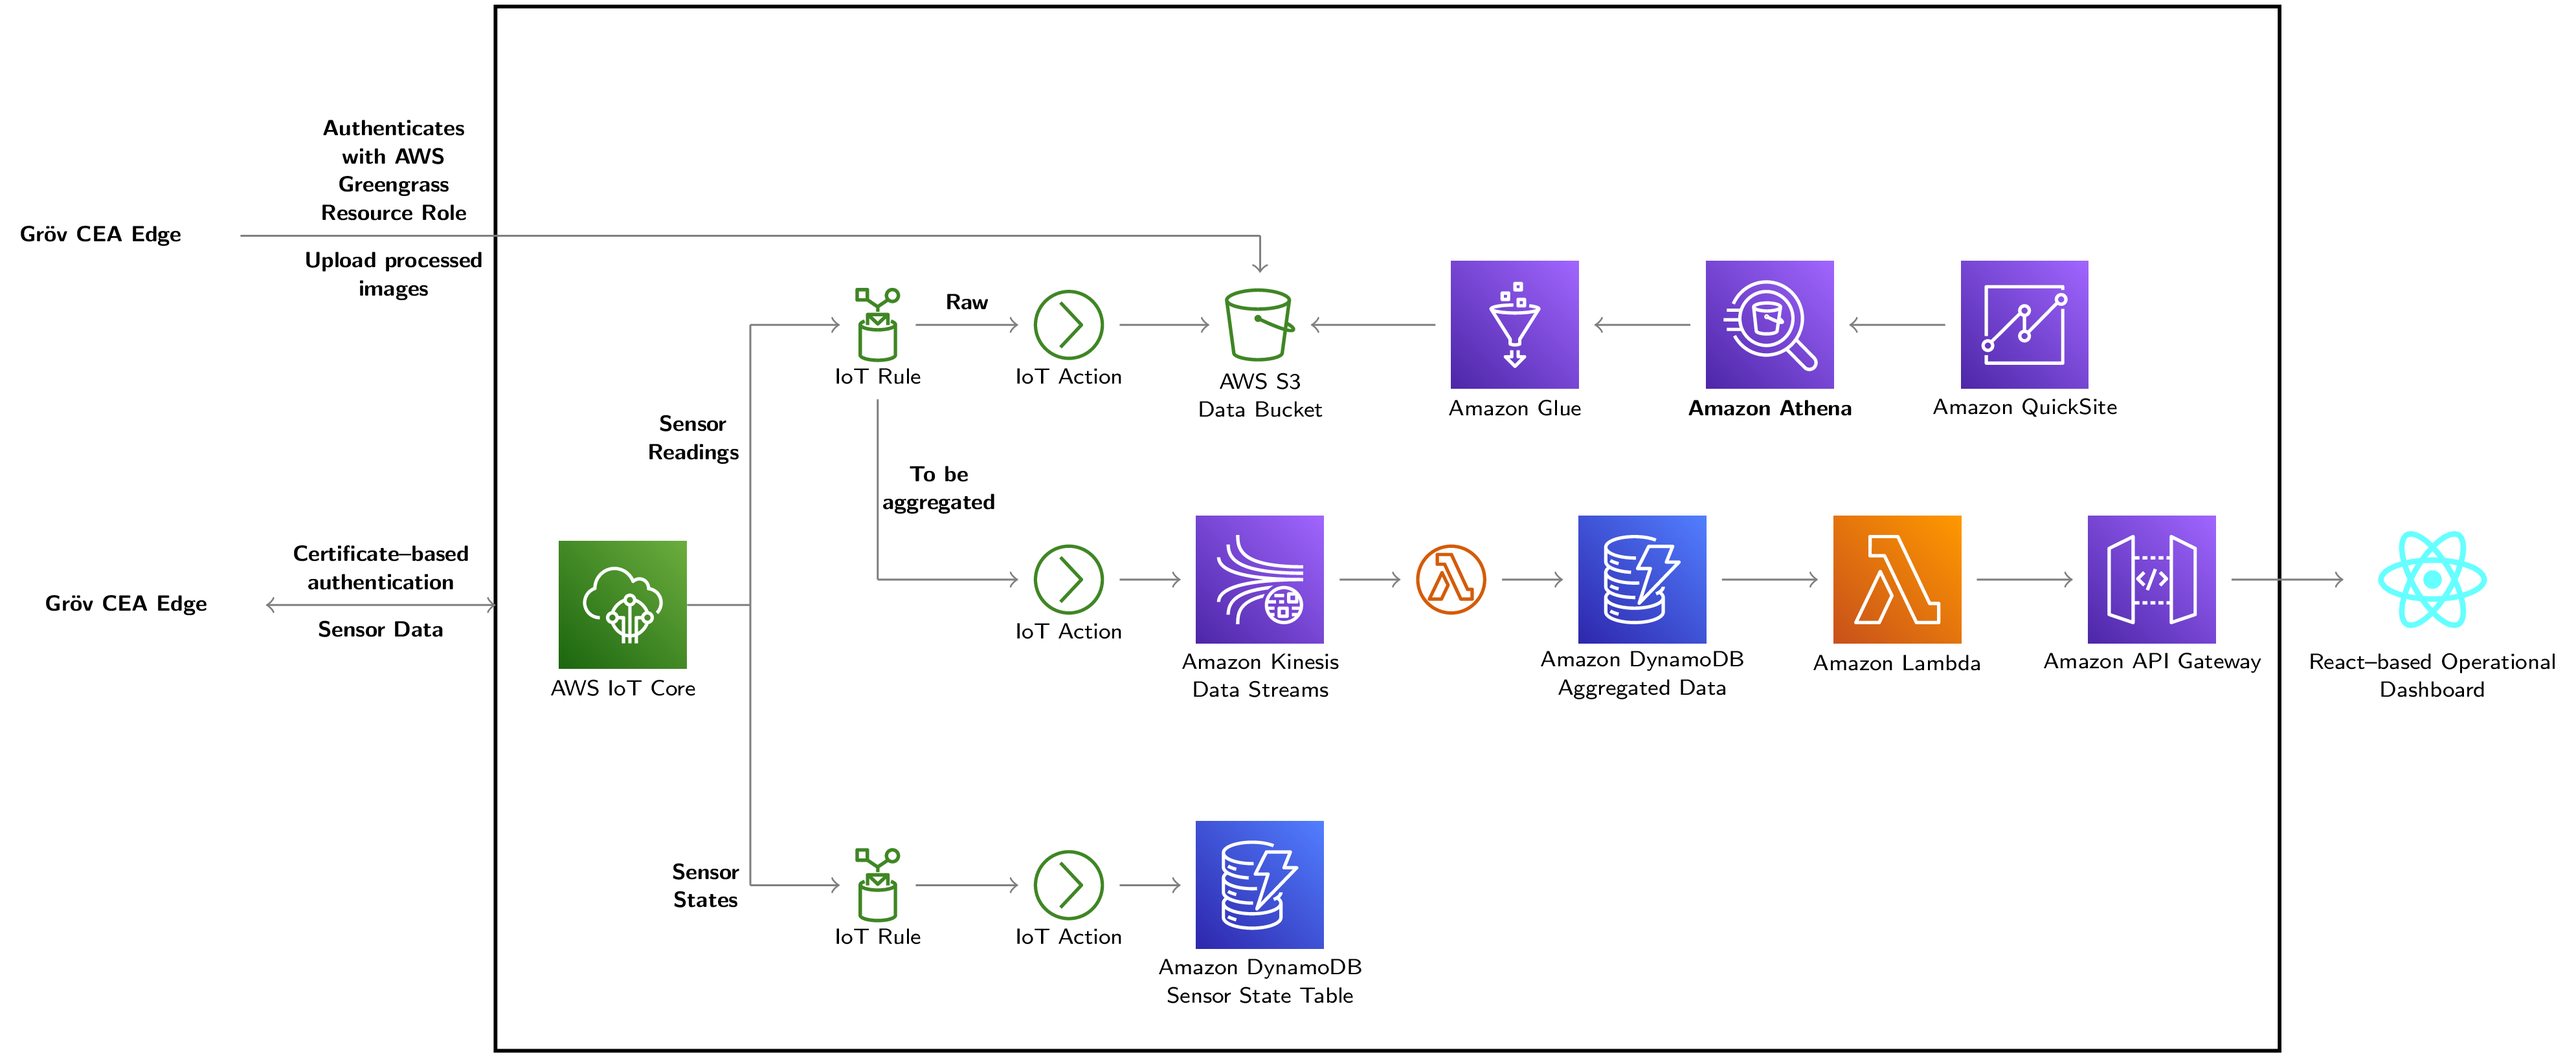
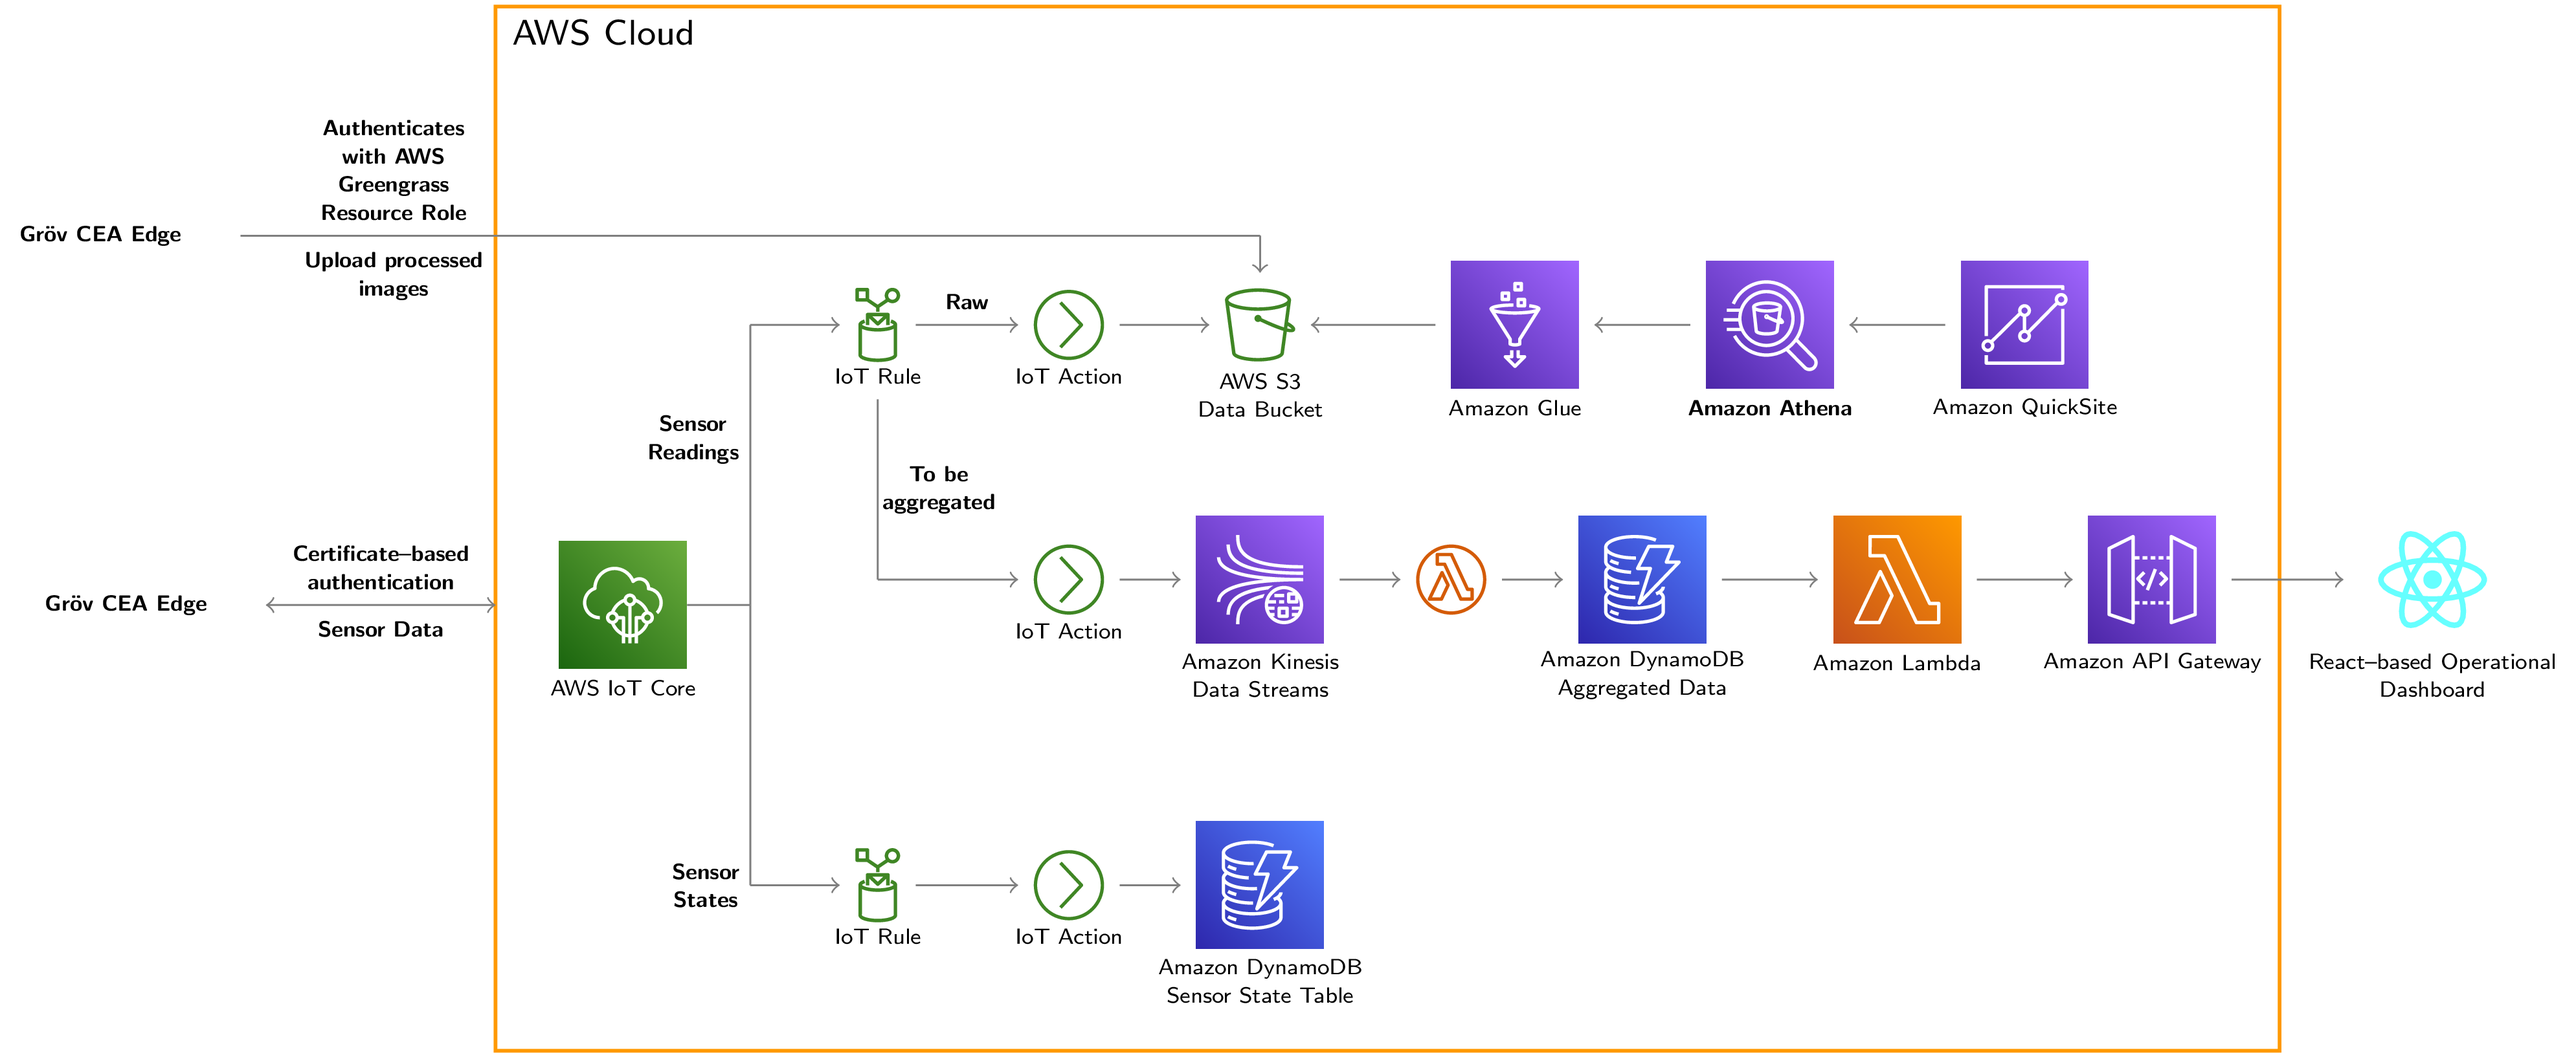
Added awsOrange to style via aws2tex; updated Data example output

Changed region(s): [[0.187, 0.0, 0.8726, 0.0624], [0.187, 0.9676, 0.8726, 0.9988]]

diff --git a/examples/Data-pipeline-Grov-Technologies.tex b/examples/Data-pipeline-Grov-Technologies.tex
@@ -21,25 +21,15 @@
     urlcolor={blue!80!black}
 }
 
+\definecolor{awsOrange}{RGB}{255 153 0}
 \renewcommand{\familydefault}{\sfdefault}
 
 \definecolor{reactColor}{RGB}{102,255,255}
 
 \begin{document}
-%% \section{Example: AWS Architecture blog: \textit{Building a Controlled Environment Agriculture Platform}}
-%% \noindent Example taken from AWS Architecture Blog\footnote{\url{https://aws.amazon.com/blogs/architecture}}, 
-%% \textit{Building a Controlled Environment Agriculture Platform}\footnote{\url{https://aws.amazon.com/blogs/architecture/building-a-controlled-environment-agriculture-platform/}}, by Ashu Joshi, 2020.12.22.
-%% Original diagrm\footnote{\url{https://d2908q01vomqb2.cloudfront.net/fc074d501302eb2b93e2554793fcaf50b3bf7291/2020/12/21/Data-pipeline-Grov-Technologies-1024x374.png}} recreated, using \href{https://ctan.org/pkg/pgf?lang=en}{tikz} and the \href{https://github.com/gnewton/awsArchIcons2LaTeX}{awsicons} package.
-%% \pagenumbering{gobble}
-%% \newpage
-%% \begin{landscape}
-%% \section{Original diagram (PNG image)}
-%% \includegraphics[width=20cm] {Data-pipeline-Grov-Technologies-1024x374.png}
-
-%% \section{Recreated diagram}
 \begin{tikzpicture}[%
     %% AWS has no React symbol
-    %% From: https://tex.stackexchange.com/questions/349960/how-to-draw-a-symbol-on-a-tikz-node-that-can-be-reused
+    %% Derived from: https://tex.stackexchange.com/questions/349960/how-to-draw-a-symbol-on-a-tikz-node-that-can-be-reused
     atom/.style = {shape=coordinate,minimum size=#1,
       append after command={%
         \pgfextra{ 
@@ -51,10 +41,11 @@
     }
   ]
 
-  \draw [draw=black,thick] (-1,-3.5) rectangle (13,4.7);
-
+  \draw [draw=awsOrange,thick] (-1,-3.5) rectangle (13,4.7);
+  \node (awsCloud) at (-.15,4.5) {\footnotesize AWS Cloud};
 
   \node (core) {\AIoTCore{1cm}};
+
   \node (preCore)[shape=coordinate,left of=core,align=center] {};
   \node (sensorData)[shape=coordinate,left of=preCore,align=center,xshift=-8mm] {};
 

diff --git a/aws2tex/main.go b/aws2tex/main.go
@@ -81,6 +81,7 @@ func main() {
 
 	fmt.Fprintf(wStyle, "\\newcommand{\\assetZipFile}{%s}\n", strings.ReplaceAll(argAssetZipFile, "_", "\\_"))
 	fmt.Fprintf(wStyle, "\\newcommand{\\inkscapeVersion}{%s}\n", strings.ReplaceAll(inkscapeVersion, "_", "\\_"))
+	fmt.Fprintln(wStyle, "\\definecolor{awsOrange}{RGB}{255 153 0}")
 	fmt.Fprintln(wStyle, "%%%%%%%%%%%%%%%%")
 	printMacros(wStyle, res_entries)
 	printMacros(wStyle, arch_entries)
